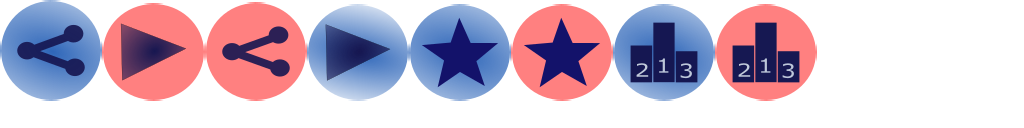
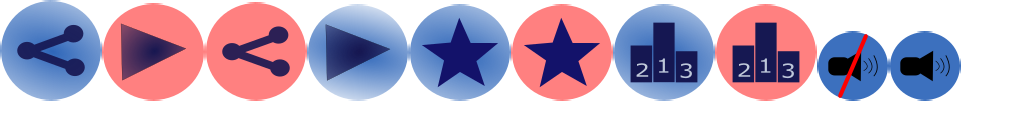
Buttons / Splash BG with mute button

Changed region(s): [[0.7812, 0.2188, 0.9375, 0.8125]]

diff --git a/core/src/com/dualtech/fallingpresents/Menu.java b/core/src/com/dualtech/fallingpresents/Menu.java
@@ -46,7 +46,6 @@ public class Menu extends State {
     public void initializeButtons(){
         playButton = new ImageButton(AssetLoader.playStyle);
         playButton.setPosition(cameraWidth / 6 * 2, cameraHeight / 3 - 30);
-        //playButton.setSize(100, 30);
         playButton.addListener(new ClickListener() {
             @Override
             public void clicked(com.badlogic.gdx.scenes.scene2d.InputEvent event, float x, float y) {
@@ -56,18 +55,22 @@ public class Menu extends State {
             }
         });
 
-        muteButton = new ImageButton(AssetLoader.playStyle);
+        if(AssetLoader.isSoundOn()){muteButton = new ImageButton(AssetLoader.soundStyle);}
+        else{muteButton = new ImageButton(AssetLoader.muteStyle);}
         muteButton.setPosition(cameraWidth / 6 * 2, cameraHeight / 2);
+        //muteButton.setPosition(cameraWidth, cameraHeight);
         muteButton.addListener(new ClickListener() {
             @Override
             public void clicked(com.badlogic.gdx.scenes.scene2d.InputEvent event, float x, float y) {
                 super.clicked(event, x, y);
                 if(AssetLoader.isSoundOn()){
                     AssetLoader.toggleSound(false);
+                    muteButton.setStyle(AssetLoader.muteStyle);
                     System.out.println("Mute Clicked: Sound is off");
                 }
                 else{
                     AssetLoader.toggleSound(true);
+                    muteButton.setStyle(AssetLoader.soundStyle);
                     System.out.println("Mute Clicked: Sound is on");
                 }
             }
@@ -75,7 +78,6 @@ public class Menu extends State {
 
         leaderBoardButton = new ImageButton(AssetLoader.scoreStyle);
         leaderBoardButton.setPosition((cameraWidth / 6) * 3 + 60, cameraHeight / 3 - 30);
-        //leaderBoardButton.setSize(100, 30);
         leaderBoardButton.addListener(new ClickListener() {
             @Override
             public void clicked(com.badlogic.gdx.scenes.scene2d.InputEvent event, float x, float y) {
@@ -87,7 +89,6 @@ public class Menu extends State {
 
         rateButton = new ImageButton(AssetLoader.rateStyle);
         rateButton.setPosition((cameraWidth / 6) * 3 + 60, cameraHeight / 2);
-        //leaderBoardButton.setSize(100, 30);
         rateButton.addListener(new ClickListener() {
             @Override
             public void clicked(com.badlogic.gdx.scenes.scene2d.InputEvent event, float x, float y) {
@@ -99,11 +100,7 @@ public class Menu extends State {
     }
 
     @Override
-    protected void handleInput() {
-        /*if(Gdx.input.justTouched()){
-            gcm.set(new PlayGame(gcm));
-        }*/
-    }
+    protected void handleInput() {}
 
     @Override
     public void update(float dt) {

diff --git a/core/src/com/dualtech/fallingpresents/EndGame.java b/core/src/com/dualtech/fallingpresents/EndGame.java
@@ -65,7 +65,6 @@ public class EndGame extends State {
     public void initializeButtons(){
         playButton = new ImageButton(AssetLoader.playStyle);
         playButton.setPosition(cameraWidth / 6 * 2, cameraHeight / 4 - 40);
-        //playButton.setSize(100, 30);
         playButton.addListener(new ClickListener() {
             @Override
             public void clicked(com.badlogic.gdx.scenes.scene2d.InputEvent event, float x, float y) {
@@ -77,19 +76,21 @@ public class EndGame extends State {
             }
         });
 
-        muteButton = new ImageButton(AssetLoader.playStyle);
+        if(AssetLoader.isSoundOn()){muteButton = new ImageButton(AssetLoader.soundStyle);}
+        else{muteButton = new ImageButton(AssetLoader.muteStyle);}
         muteButton.setPosition(cameraWidth / 6 * 2, cameraHeight / 3);
-        //playButton.setSize(100, 30);
         muteButton.addListener(new ClickListener() {
             @Override
             public void clicked(com.badlogic.gdx.scenes.scene2d.InputEvent event, float x, float y) {
                 super.clicked(event, x, y);
                 if(AssetLoader.isSoundOn()){
                     AssetLoader.toggleSound(false);
+                    muteButton.setStyle(AssetLoader.muteStyle);
                     System.out.println("Mute Clicked: Sound is off");
                 }
                 else{
                     AssetLoader.toggleSound(true);
+                    muteButton.setStyle(AssetLoader.soundStyle);
                     System.out.println("Mute Clicked: Sound is on");
                 }
             }
@@ -97,20 +98,17 @@ public class EndGame extends State {
 
         leaderBoardButton = new ImageButton(AssetLoader.scoreStyle);
         leaderBoardButton.setPosition((cameraWidth / 6) * 3 + 60, cameraHeight / 4 - 40);
-        //leaderBoardButton.setSize(100, 30);
         leaderBoardButton.addListener(new ClickListener() {
             @Override
             public void clicked(com.badlogic.gdx.scenes.scene2d.InputEvent event, float x, float y) {
                 super.clicked(event, x, y);
                 System.out.println("LeaderBoard: Button Clicked");
-                //gcm.set(new PlayGame(gcm));
                 FallingPresentsGame.resolver.submitScore(score);
             }
         });
 
         rateButton = new ImageButton(AssetLoader.rateStyle);
         rateButton.setPosition((cameraWidth / 6) * 3 + 60, cameraHeight / 3);
-        //leaderBoardButton.setSize(100, 30);
         rateButton.addListener(new ClickListener() {
             @Override
             public void clicked(com.badlogic.gdx.scenes.scene2d.InputEvent event, float x, float y) {

diff --git a/core/src/com/dualtech/fallingpresents/AssetLoader.java b/core/src/com/dualtech/fallingpresents/AssetLoader.java
@@ -23,9 +23,9 @@ public class AssetLoader {
     public static BitmapFont font, shadow;
     public static Texture background,trolley, splash, christmasPresent;
     public static Texture p1, p2, p3, p4, p5;
-    public static Skin menuSkin, presentSkin;
+    public static Skin menuSkin;
     public static Label scoreBoard;
-    public static ImageButton.ImageButtonStyle playStyle, rateStyle, scoreStyle;
+    public static ImageButton.ImageButtonStyle playStyle, rateStyle, scoreStyle, muteStyle, soundStyle;
 
     public static void load(){
         prefs = Gdx.app.getPreferences("Falling Presents");
@@ -42,10 +42,6 @@ public class AssetLoader {
         p4 = new Texture("present4.png");
         p5 = new Texture("present5.png");
 
-       /* presentSkin = new Skin();
-        presentSkin.addRegions(new TextureAtlas(Gdx.files.internal("presents.pack")));
-        christmasPresent = presentSkin.getRegion("present5").getTexture();
-*/
         christmasPresent = p5;
 
         menuSkin= new Skin();
@@ -59,6 +55,10 @@ public class AssetLoader {
         scoreStyle = new ImageButton.ImageButtonStyle();
         scoreStyle.imageUp = menuSkin.getDrawable("score");
         scoreStyle.imageDown = menuSkin.getDrawable("scoreR");
+        muteStyle = new ImageButton.ImageButtonStyle();
+        muteStyle.imageUp = menuSkin.getDrawable("mute");
+        soundStyle = new ImageButton.ImageButtonStyle();
+        soundStyle.imageUp = menuSkin.getDrawable("sound");
 
         // Provide default high score of 0
         if (!prefs.contains("highScore")) {
